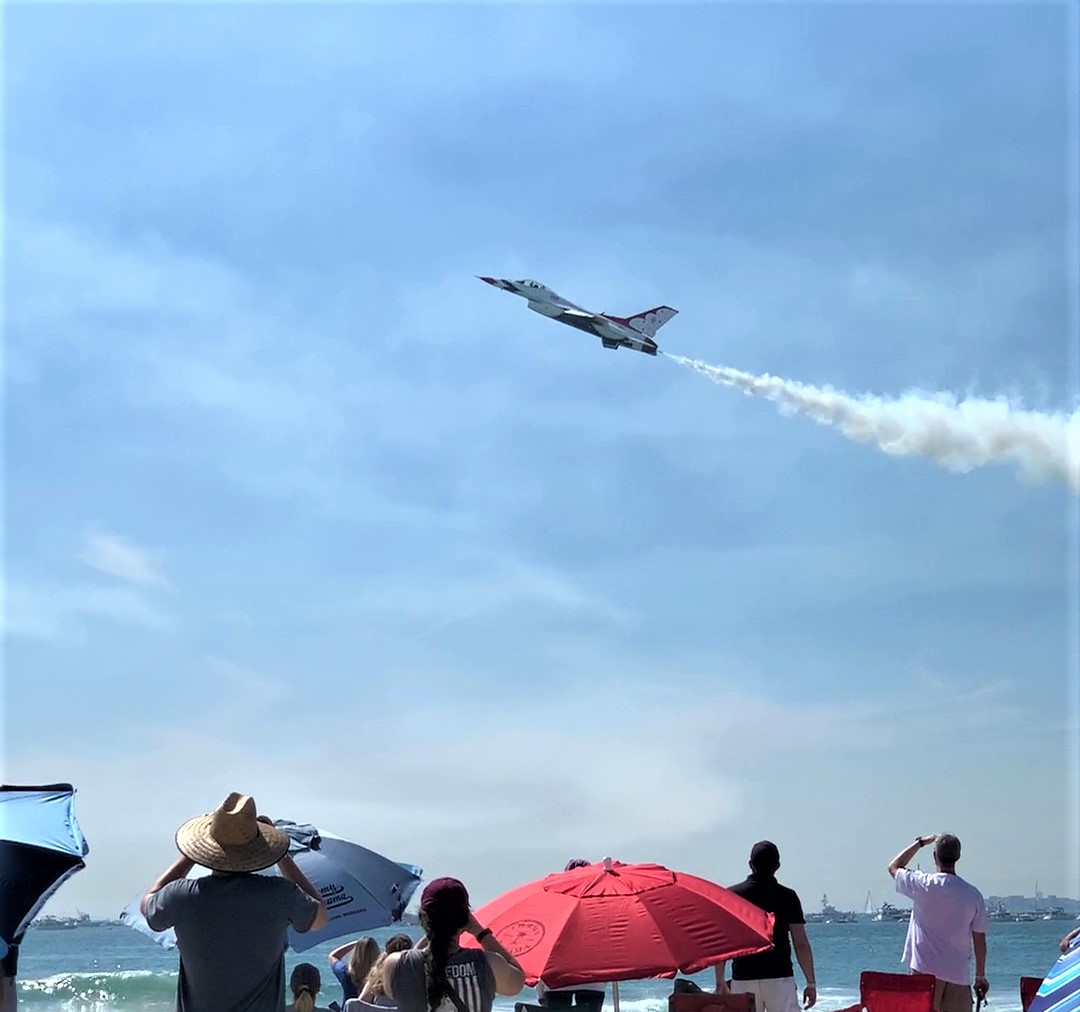
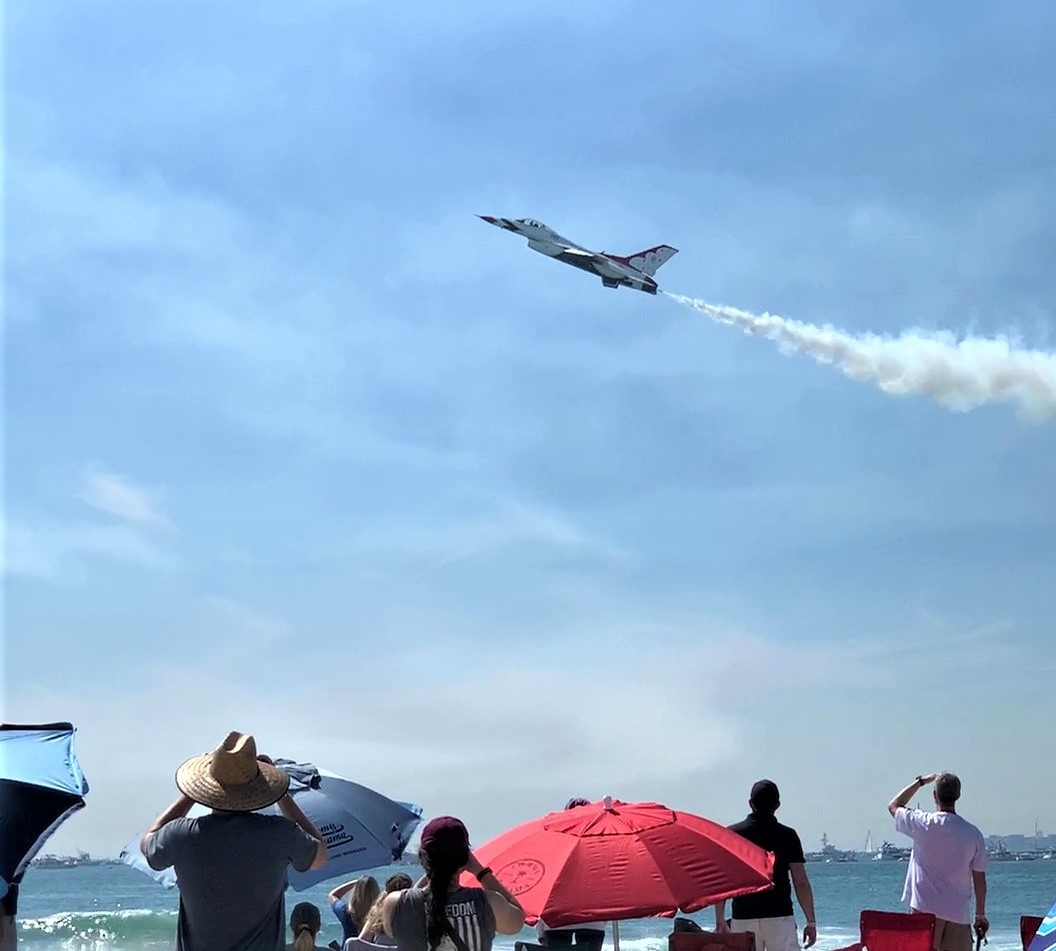
panzer

diff --git a/blog/post006/airshowsfall21.md b/blog/post006/airshowsfall21.md
@@ -22,15 +22,15 @@ Not to be overshadowed was the Red Bull Air Force, which left the crowd in awe w
 
 ## Pacific Airshow (October 1-3)
 
-<center><img src="004.jpg" width="75%" height="75%"></center>
+<center><img src="004.jpg" width="50%" height="50%"></center>
 
 Centered over the Huntington Beach waterfront, the Pacific Airshow combined a sunny day at the beach with thrilling air displays. 
 
-<center><img src="005.jpg"></center>
+<center><img src="005.jpg" width="50%" height="50%"></center>
 
 The event was highlighted by a rare trifecta of the USN Blue Angels, USAF Thunderbirds, and RCAF Snowbirds. Having caught both the Thunderbirds and Snowbirds the week prior, I was very much looking forward to seeing them again. This was also my first time watching the Blue Angels since their transition from the F/A-18C Hornet to the larger and more powerful F/A-18E Super Hornet. The pilots were still able to pull off their signature formations with minimal wingtip-to-wingtip separation but the newer Super Hornets were much louder which enchanced several features of the show, most notably the sneak pass. 
 
-<center><img src="006.jpg" width="75%" height="75%"></center>
+<center><img src="006.jpg" width="50%" height="50%"></center>
 
 Several intriguing aircraft took part in the airshow. One was the Yak-110, a highly aerobatic machine created using the fuselages of two Yak-55s with an additional turbojet engine mounted in the center. Another was a McDonnell Douglas MD-10 convered into the Orbis Flying Eye Hospital. The aircraft is used to train doctors and treat patients across the globe. 
 

diff --git a/books/gtwwii.md b/books/gtwwii.md
@@ -1,0 +1,9 @@
+# *German Tanks of World War II: 1939-1945* 
+
+<center><img src="germantanks/001.JPG" width="35%" height="35%" class="center"><img src="germantanks/002.JPG" width="35%" height="35%" class="center"></center>
+
+One of several Technical Guides published by Amber Books, *German Tanks of World War II: 1939-1945* is 200-page overview of the myriad of armored vehicles fielded by the German army during the Second World War. The book covers armored cars, tanks, self-propelled artillery, tank destroyers, and specialized vehicles. Numerous prototype tanks, such as the VK30.02 and Maus, are mentioned and there is also a section dedicated to captured Allied and Soviet armor pressed into service. 
+
+Each vehicle entry is accompanied with a description of its development, purpose, and usage. Several drawings or photographs are provided alongside a profile summarizing dimensions, performance, and armament. The author is diligent in providing enough information for the reader to distinguish between multiple variants of the same vehicle. 
+
+*German Tanks of World War II: 1939-1945* is an excellent quick reference for armored vehicle enthusiasts and doesn't take up too much shelf space either.  

diff --git a/scale_aircraft.md b/scale_aircraft.md
@@ -22,7 +22,7 @@ My interest in historic aircraft took flight during my childhood when I came acr
 * Mikoyan-Gurevich MiG-19
 * Mikoyan-Gurevich MiG-21
 * [Mikoyan-Gurevich MiG-23](https://williamteav.github.io/personal_website/scale_aircraft/mig23.html)
-* [Mikoyan-Gurevich MiG-25](https://williamteav.github.io/personal_website/scale_aircraft/mig25.html)
+* Mikoyan-Gurevich MiG-25
 * [Mitsubishi A6M2 Zero](https://williamteav.github.io/personal_website/scale_aircraft/a6m.html)
 * [Nakajima B5N2](https://williamteav.github.io/personal_website/scale_aircraft/b5n.html)
 * [Nakajima Ki-43-II Hayabusa](https://williamteav.github.io/personal_website/scale_aircraft/ki43.html)

diff --git a/books.md b/books.md
@@ -1,3 +1,4 @@
 ## Book Reviews
 
+* [*German Tanks of World War II: 1939-1945*](https://williamteav.github.io/personal_website/books/gtwwii.html)
 * [*In Cold War Skies*](https://williamteav.github.io/personal_website/books/icws.html)
